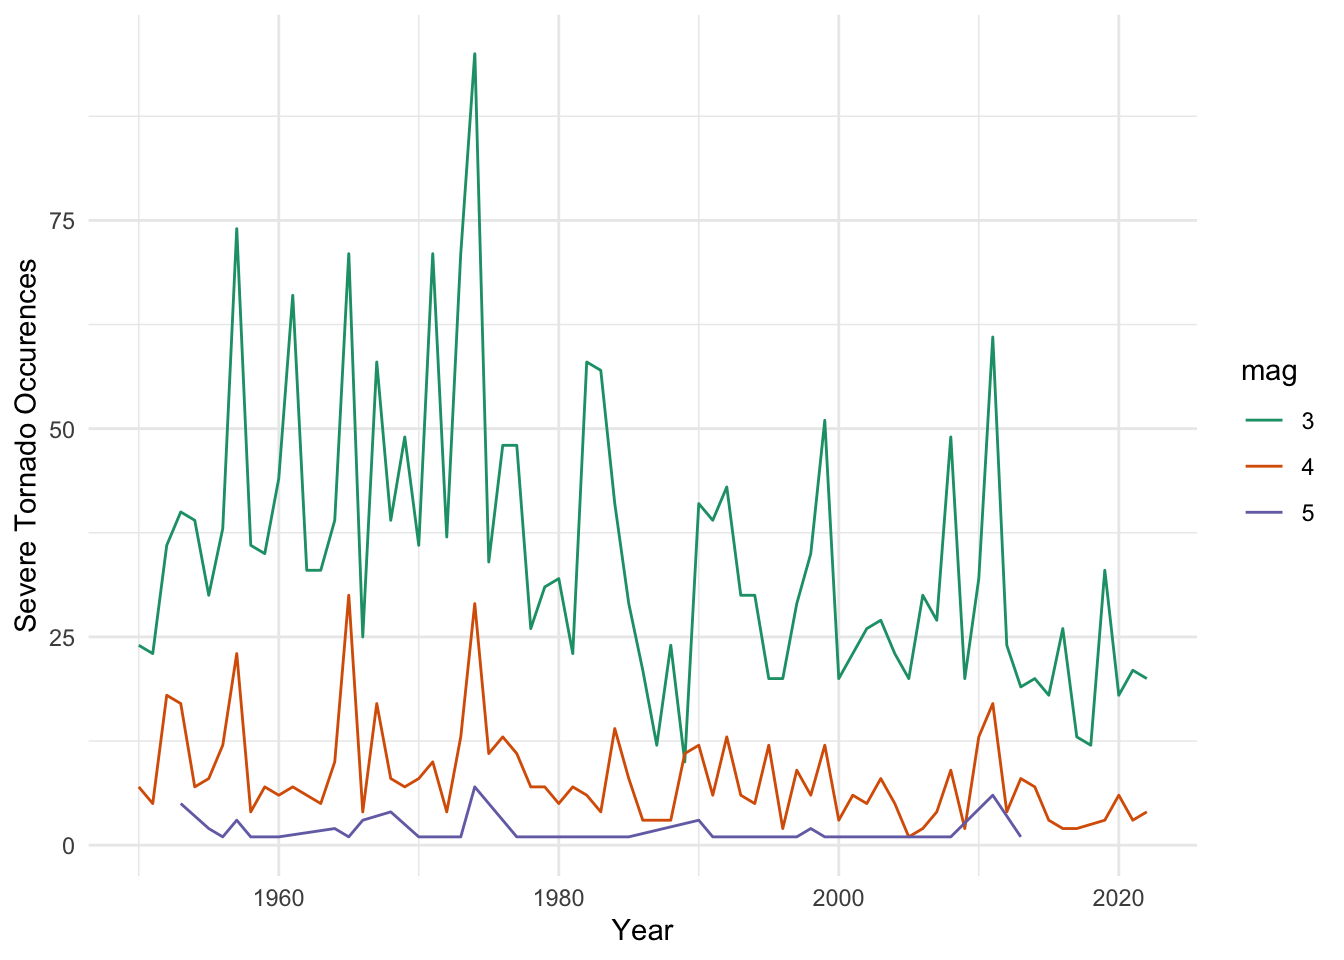
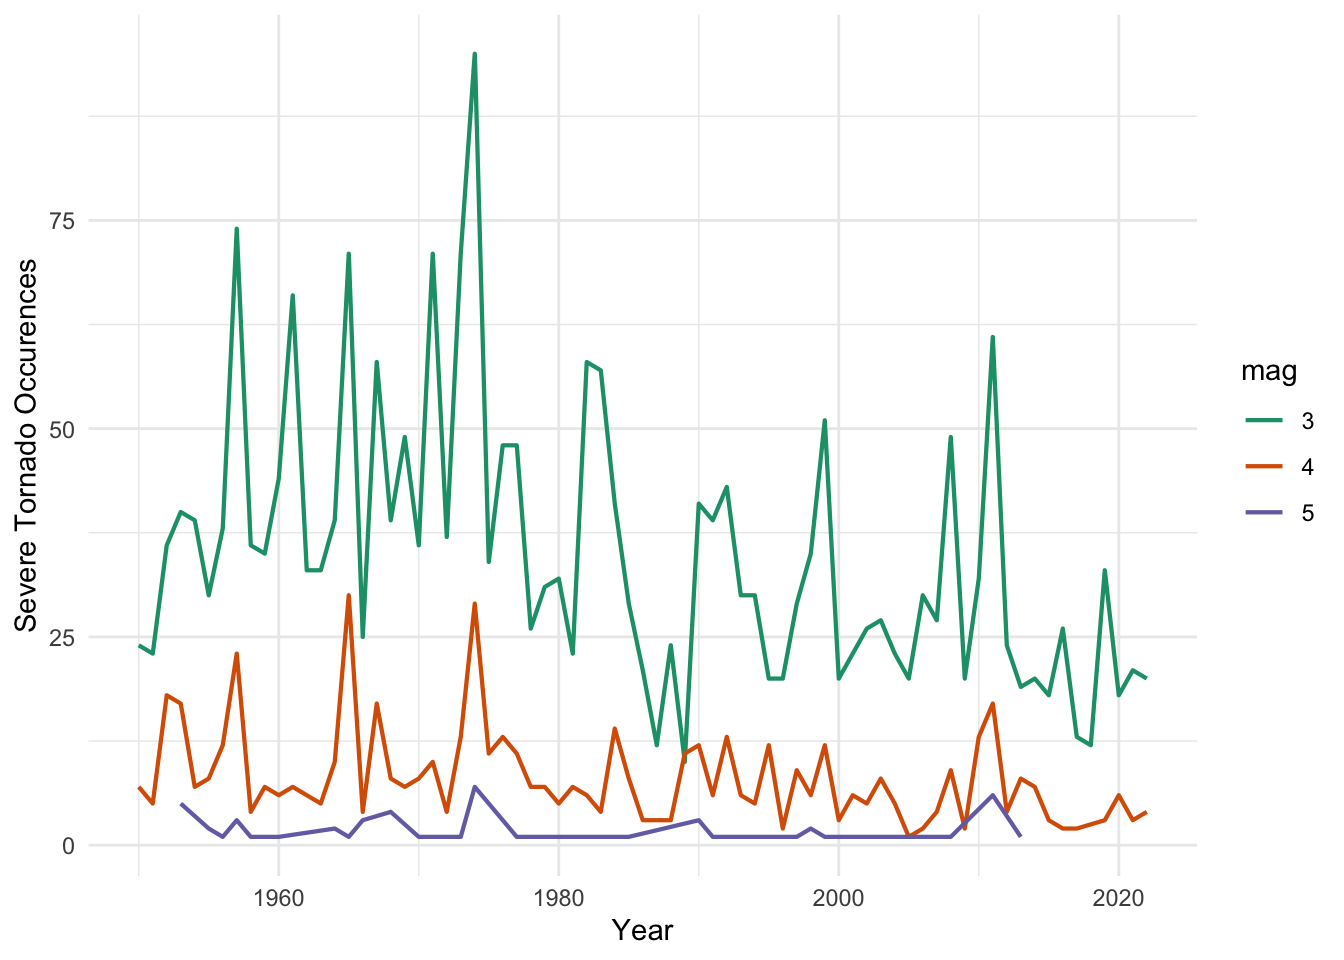
blog post

diff --git a/docs/posts/BlogPost1/index.html b/docs/posts/BlogPost1/index.html
@@ -319,7 +319,7 @@ pre > code.sourceCode > span > a:first-child::before { text-decoration: underlin
 <span id="cb5-4"><a href="#cb5-4" aria-hidden="true" tabindex="-1"></a>  <span class="fu">mutate</span>(<span class="at">mag =</span> <span class="fu">as_factor</span>(mag))</span>
 <span id="cb5-5"><a href="#cb5-5" aria-hidden="true" tabindex="-1"></a></span>
 <span id="cb5-6"><a href="#cb5-6" aria-hidden="true" tabindex="-1"></a><span class="fu">ggplot</span>(<span class="at">data =</span> tornadoes_mag_sum, <span class="fu">aes</span>(<span class="at">x =</span> yr, <span class="at">y =</span> tornado_occurrences, <span class="at">col =</span> mag)) <span class="sc">+</span></span>
-<span id="cb5-7"><a href="#cb5-7" aria-hidden="true" tabindex="-1"></a>  <span class="fu">geom_line</span>() <span class="sc">+</span></span>
+<span id="cb5-7"><a href="#cb5-7" aria-hidden="true" tabindex="-1"></a>  <span class="fu">geom_line</span>(<span class="at">linewidth =</span> <span class="fl">0.75</span>) <span class="sc">+</span></span>
 <span id="cb5-8"><a href="#cb5-8" aria-hidden="true" tabindex="-1"></a>  <span class="fu">scale_color_brewer</span>(<span class="at">palette =</span> <span class="st">"Dark2"</span>) <span class="sc">+</span></span>
 <span id="cb5-9"><a href="#cb5-9" aria-hidden="true" tabindex="-1"></a>  <span class="fu">labs</span>(<span class="at">x =</span> <span class="st">"Year"</span>, <span class="at">y =</span> <span class="st">"Severe Tornado Occurences"</span>) <span class="sc">+</span></span>
 <span id="cb5-10"><a href="#cb5-10" aria-hidden="true" tabindex="-1"></a>  <span class="fu">theme_minimal</span>()</span></code><button title="Copy to Clipboard" class="code-copy-button"><i class="bi"></i></button></pre></div>
@@ -366,6 +366,12 @@ pre > code.sourceCode > span > a:first-child::before { text-decoration: underlin
 </div>
 </div>
 <p><strong>Visual Takeaway:</strong> The most tornadoes occur during the start of summer - particularly April, May, and June. These three months seem significantly higher than the rest, which makes sense due to the typical atmospheric conditions that exist during this time. The introduction of more warm, moist air, combined with cooler, dry air causes instability in the lower atmosphere. The dryness of the winter months lead to lower instances of tornadoes in the United States.</p>
+<p><br></p>
+</section>
+<section id="conclusion" class="level2">
+<h2 class="anchored" data-anchor-id="conclusion">Conclusion</h2>
+<p>In particular for the map of total tornadoes, I could standardize the values with respect to tornadoes per state land area so that the massive area of Texas doesn’t stand out as much in the visualization. If I did it this way, I would likely see a change in colors in the map with likely higher values in states like Oklahoma and Kansas. In terms of the line plot for extreme tornadoes over time, the plot is a bit underwhelming. This is likely because of the lack of striking trend that we see in the other two figures.</p>
+<p>If I had more time to work with these data, I would try to explore relationships involving tornado size (length and width) and magnitude with property losses and injuries/fatalities. I think it would be interesting to see if I could make a model that predicts either property loss or injuries/fatalities using tornado size and magnitude as well as time of day. The <code>datetime_utc</code> variable could also be used to view the data as a time series.</p>
 <p><br></p>
 </section>
 <section id="connection-to-class-ideas" class="level2">

diff --git a/docs/index.html b/docs/index.html
@@ -170,7 +170,7 @@ ul.task-list li input[type="checkbox"] {
 
 <div class="quarto-listing quarto-listing-container-default" id="listing-listing">
 <div class="list quarto-listing-default">
-<div class="quarto-post image-right" data-index="0" data-categories="code,analysis" data-listing-date-sort="1707390000000" data-listing-file-modified-sort="1707428624663" data-listing-date-modified-sort="NaN" data-listing-reading-time-sort="17">
+<div class="quarto-post image-right" data-index="0" data-categories="code,analysis" data-listing-date-sort="1707390000000" data-listing-file-modified-sort="1707432722992" data-listing-date-modified-sort="NaN" data-listing-reading-time-sort="17">
 <div class="thumbnail">
 <p><a href="./posts/BlogPost1/index.html"> <img src="./posts/BlogPost1/total_tornadoes_map.png" class="thumbnail-image"> </a></p>
 </div>
